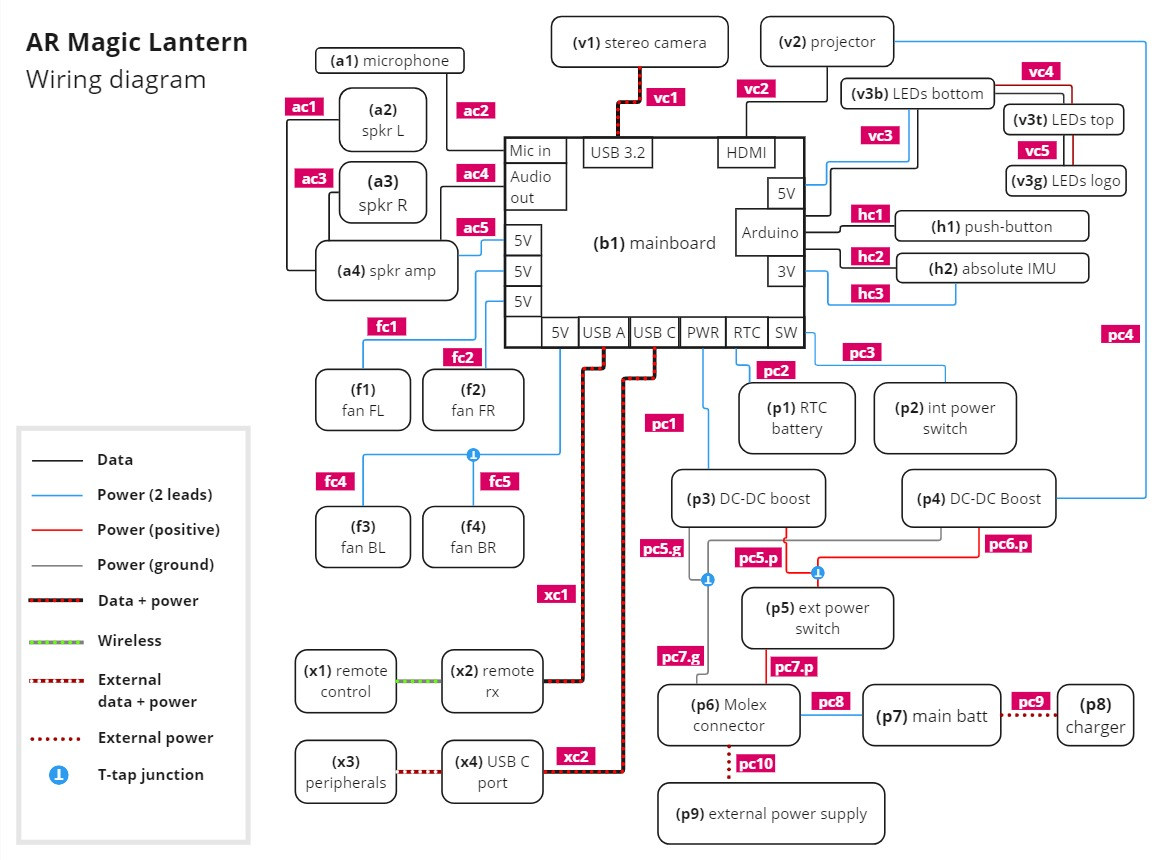
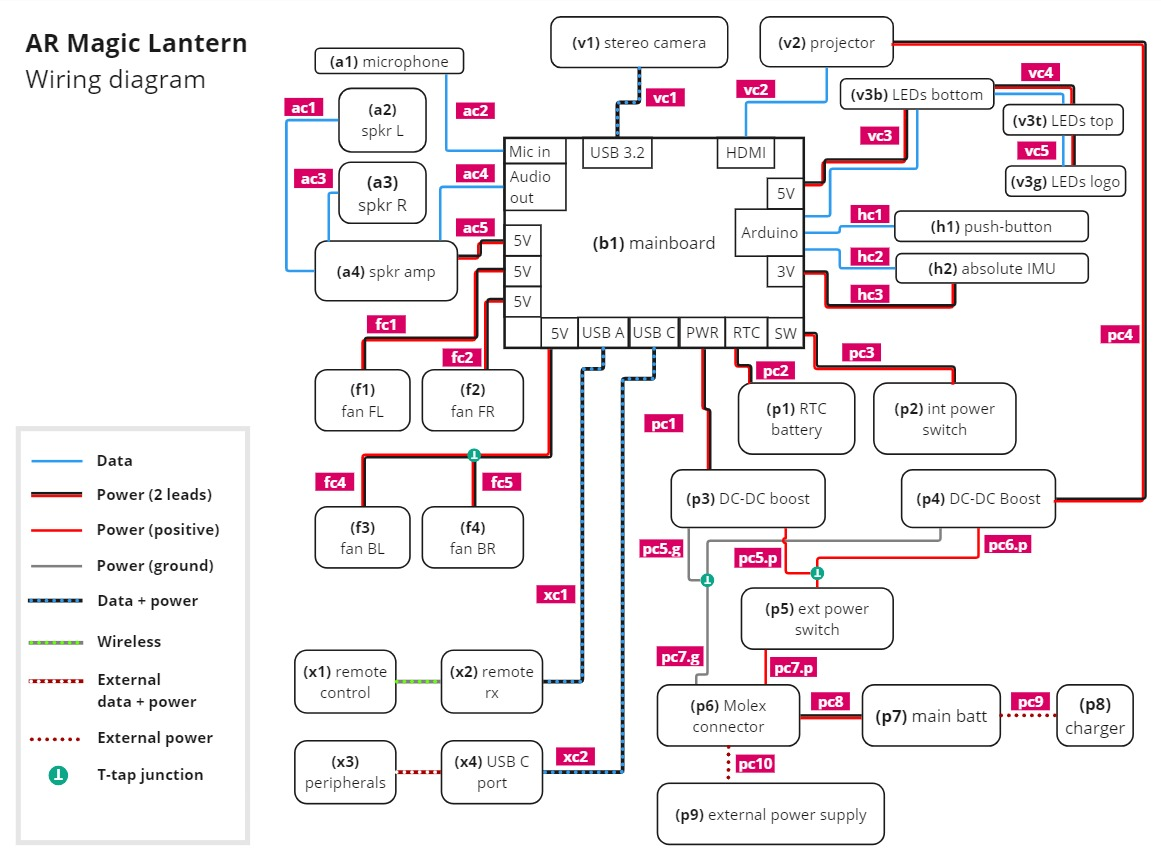
add external power instructions

diff --git a/arml-website/docs/components.md b/arml-website/docs/components.md
@@ -1,5 +1,7 @@
 # ARML Component Reference
 
+## Component layout
+
 ![](images/ARML-hardware-system-diagram.jpg)
 *Diagram showing components of the AR Magic Lantern and how they are connected. The labels on each component correspond to labels in the images of the physical hardware and in the component list.*
 
@@ -32,9 +34,9 @@
 | p3, p4 | LM2587 boost converters with breakout boards. Input is unregulated DC 12V from main battery or external power supply. Output is regulated DC 12V to (p3) mainboard and (p4) projector. | [Amazon](https://www.amazon.es/TECNOIOT-lm2587-Converter-Supply-m%C3%B3dulos/dp/B07RKDB2VP) |
 | p5  | KCD1 External power switch mounted on top part of body, under the handle. Interrupts all battery and external power supply current. | [Amazon](https://www.amazon.es/gp/product/B0BM9DXTMR) |
 | p6  | Molex Mini-Fit Jr, 2-pin power connector. | [Amazon](https://www.amazon.es/gp/product/B07XJYLW1D) |
-| p7  | BLR-1210 Main battery pack: 12V, 10Ah (120W) | []
+| p7  | BLR-1210 Main battery pack: 12V, 10Ah (120W). See [Power Reference](power.md) | [BaLiRe](https://bateriadelitiorecargable.com/) |
 | p8 | Charger for 12V DC battery pack, 2A(1) or 5A(2) | [AliExpress(1)](https://www.aliexpress.com/item/1005006233034942.html)<br />[AliExpress(2)](https://www.aliexpress.com/item/1005001608750083.html) |
-| p9  | External 12V DC power supply, minimum current 5A | [BaLiRe](https://bateriadelitiorecargable.com/) |
+| p9  | External 12V DC power supply, minimum current 5A. See [Power Reference](power.md) | [Amazon](https://www.amazon.es/dp/B07XDSR4DK) |
 | x1  | Remote control with typical AndroidTV button layout. | [Amazon](https://www.amazon.es/gp/product/B015SO37SY) |
 | x2  | Receiver for x1 remote control. Connected to USB A port of mainboard. |
 | x3  | USB peripherals such as a memory stick, hub, etc. |

diff --git a/arml-website/docs/power.md b/arml-website/docs/power.md
@@ -4,9 +4,16 @@ The ARML can be powered by a lithium ion battery pack (see [specifications](#bat
 
 ## Using USB-C power
 
-When an appropirate USB-C PD power supply is connected to the back of the lantern, it will not provide power to the projector. Therefore, a common use case for powering it this way is when there is also a monitor, keyboard and mouse attached to the device, by way of a USB hub (see [Building and Running](workflow.md#4-copy-application-files-to-arml-device)).
+When an appropirate USB-C PD power supply is connected to the back of the lantern, it will provide power all components of the system except the projector. Therefore, a common use case for powering it this way is when there is also a monitor, keyboard and mouse attached to the device, by way of a USB hub (see [Building and Running](workflow.md#4-copy-application-files-to-arml-device)).
 
 The power supply should be rated to deliver at least 45W of power, but the recommended rating is 60W or higher. Adapters designed for laptops that support a USB-C power supply will probably work. [Example on Amazon](https://www.amazon.es/USB-65W-Ordenador-Universal-Adaptador/dp/B0D48H3TR4)
+
+## Using a 12V power supply
+
+You can power the ARML system, including the projector, by substituting the battery for an appropriate 12V power supply. The power supply should support at least 5A of current. You will need to adapt the plug of the power supply (the standard is 5.5mm barrel jack) to the Mini Molex connector in the battery compartment of the ARML.
+
+![](images/ARML-external-power.jpg)
+*Photo showing an external power supply connected to the ARML using an adaptor from 5.5mm barrel jack to Mini Molex connector*
 
 ## Battery specifications
 

diff --git a/arml-website/docs/wiring.md b/arml-website/docs/wiring.md
@@ -1,12 +1,19 @@
 # ARML Wiring Reference
 
+## Wiring diagrams
+
 ![](images/ARML-wiring-diagram.jpg)
 *Diagram showing components of the AR Magic Lantern and the wiring between them. The labels on each connection correspond to labels in the image of the component enpoints and in the component list. The labels on each component refer to the [Component Reference](components.md) page.*
 
 ![](images/ARML-wiring-component-endpoints.jpg)
 *Figure showing the mainboard, audio amplifier circuit and audio jack, labelled to show the endpoints of the wires that correspond to labels on the above wiring diagram figure*
 
-| #(s) | Type | Length (mm) | Color(s) | Description |
+## Wiring components
+
+L = length (mm),
+C = color(s)
+
+| | Type | L | C | Description |
 | --- | --- | --- | --- | --- |
 | ac1, ac3 | 30AWG | 120 | ![](images/color-black.jpg)![](images/color-red.jpg)  | Positive and negative leads coming out of TangBand speakers (see Components a2,a3) |
 | ac2 | Plug |     |     | TRRS Male Plug 4 Pole 3.5mm <br>[Amazon](https://www.amazon.es/gp/product/B078HQBNY1) |
